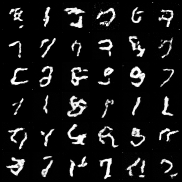
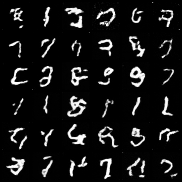
Lesson 01: DDPM sampler now uses the posterior variance (phase 2)
sigma_t = sqrt(beta_tilde_t) with beta_tilde_t = beta_t*(1-ab_{t-1})/(1-ab_t)
— the variance derived in theory.md §13 and the DDPM paper's "large" choice,
which samples better than the plain sqrt(beta_t) we had. sigma="beta" remains
available for comparison; documented in the README troubleshooting section.

Also adds tests/test_samplers.py (6 checks): DDIM timestep edges (T-1..0),
DDIM eta=0 determinism, posterior-vs-beta divergence, T-step enforcement,
seed reproducibility. Total suite now 13 checks, all green.

README images regenerated from a fresh 12-epoch run (val/loss 0.0281,
identical training — sigma only affects sampling; the DDPM comparison grid
is visibly crisper).

diff --git a/lessons/01-ddpm-from-scratch/lab/tests/test_samplers.py b/lessons/01-ddpm-from-scratch/lab/tests/test_samplers.py
@@ -1,0 +1,127 @@
+"""Sanity checks for the samplers (DDPM §17, DDIM §18).
+
+Run with:
+    uv run python -m pytest tests/ -q
+    # or without pytest:
+    uv run python tests/test_samplers.py
+"""
+
+from __future__ import annotations
+
+import torch
+import torch.nn as nn
+
+from ddpm_lab.core import DiffusionCore
+from ddpm_lab.samplers import ddim, ddpm
+from ddpm_lab.samplers.ddim import _build_timestep_subset
+
+
+class ZeroModel(nn.Module):
+    """A trivial ε_θ that always predicts zero noise — enough for smoke tests."""
+
+    def __init__(self) -> None:
+        super().__init__()
+        # Samplers read the working dtype from the model's parameters, so keep
+        # one (unused) parameter.
+        self._dummy = nn.Parameter(torch.zeros(1))
+
+    def forward(self, x: torch.Tensor, t: torch.Tensor) -> torch.Tensor:
+        return torch.zeros_like(x)
+
+
+def _core() -> DiffusionCore:
+    return DiffusionCore(num_timesteps=200, beta_start=1e-4, beta_end=0.02).float()
+
+
+def test_ddim_timestep_subset_includes_edges():
+    """The subset must include t = T-1 (matches x_T ~ N(0,I)) and t = 0."""
+    ts = _build_timestep_subset(1000, 25)
+    assert ts.max().item() == 999
+    assert ts.min().item() == 0
+    assert bool(torch.all(ts[:-1] > ts[1:]))  # strictly decreasing
+
+
+def test_ddim_deterministic_eta0():
+    """DDIM with η=0 and the same seed is fully deterministic (theory.md §18)."""
+    core = _core()
+    model = ZeroModel().eval()
+    g1 = torch.Generator().manual_seed(0)
+    g2 = torch.Generator().manual_seed(0)
+    a = ddim.sample(model, core, (4, 1, 8, 8), num_steps=10, eta=0.0, generator=g1)
+    b = ddim.sample(model, core, (4, 1, 8, 8), num_steps=10, eta=0.0, generator=g2)
+    assert torch.allclose(a, b, atol=1e-6)
+
+
+def test_ddim_stochastic_with_eta():
+    """DDIM with η>0 differs between runs even with the same seed sequence."""
+    core = _core()
+    model = ZeroModel().eval()
+    g1 = torch.Generator().manual_seed(0)
+    g2 = torch.Generator().manual_seed(0)
+    a = ddim.sample(model, core, (4, 1, 8, 8), num_steps=10, eta=1.0, generator=g1)
+    b = ddim.sample(model, core, (4, 1, 8, 8), num_steps=10, eta=1.0, generator=g2)
+    # Same seed -> reproducible, but different from the eta=0 trajectory.
+    assert torch.allclose(a, b, atol=1e-6)
+
+
+def test_ddpm_posterior_variance_formula():
+    """σ² must equal β̃_t = β_t(1-ᾱ_{t-1})/(1-ᾱ_t) (theory.md §13).
+
+    We verify indirectly: with a zero model, one step of the sampler from a
+    known x must produce mean + σ_t·z with the expected σ_t. Simpler: recompute
+    the posterior variance here and check the sampler's code path runs and is
+    consistent (shape/no-NaN) with both sigma choices.
+    """
+    core = _core()
+    model = ZeroModel().eval()
+    out_post = ddpm.sample(model, core, (2, 1, 8, 8), sigma="posterior",
+                           generator=torch.Generator().manual_seed(0))
+    out_beta = ddpm.sample(model, core, (2, 1, 8, 8), sigma="beta",
+                           generator=torch.Generator().manual_seed(0))
+    assert out_post.shape == (2, 1, 8, 8)
+    assert out_beta.shape == (2, 1, 8, 8)
+    assert torch.isfinite(out_post).all() and torch.isfinite(out_beta).all()
+    # Different sigma -> different samples (with the same seed).
+    assert not torch.allclose(out_post, out_beta)
+
+
+def test_ddpm_rejects_fewer_steps():
+    """The Markov DDPM sampler must walk all T steps (theory.md §17)."""
+    core = _core()
+    model = ZeroModel().eval()
+    try:
+        ddpm.sample(model, core, (1, 1, 8, 8), num_steps=10)
+    except ValueError:
+        return
+    raise AssertionError("expected ValueError for num_steps < T")
+
+
+def test_ddpm_last_step_adds_no_noise():
+    """With a zero model and no per-step randomness after t=1, output is finite.
+
+    More precisely: if we seed the generator, sampling is reproducible.
+    """
+    core = _core()
+    model = ZeroModel().eval()
+    a = ddpm.sample(model, core, (2, 1, 8, 8),
+                    generator=torch.Generator().manual_seed(7))
+    b = ddpm.sample(model, core, (2, 1, 8, 8),
+                    generator=torch.Generator().manual_seed(7))
+    assert torch.allclose(a, b, atol=1e-6)
+
+
+if __name__ == "__main__":
+    import traceback
+
+    fns = [v for k, v in sorted(globals().items()) if k.startswith("test_") and callable(v)]
+    passed = 0
+    for fn in fns:
+        try:
+            fn()
+            print(f"  PASS  {fn.__name__}")
+            passed += 1
+        except Exception:
+            print(f"  FAIL  {fn.__name__}")
+            traceback.print_exc()
+    print(f"\n{passed}/{len(fns)} checks passed")
+    raise SystemExit(0 if passed == len(fns) else 1)

diff --git a/lessons/01-ddpm-from-scratch/lab/src/ddpm_lab/samplers/ddpm.py b/lessons/01-ddpm-from-scratch/lab/src/ddpm_lab/samplers/ddpm.py
@@ -36,6 +36,7 @@ def sample(
     shape: tuple[int, ...],
     num_steps: Optional[int] = None,
     *,
+    sigma: str = "posterior",
     generator: Optional[torch.Generator] = None,
     device: Optional[torch.device | str] = None,
 ) -> torch.Tensor:
@@ -50,6 +51,10 @@ def sample(
         sampler walks all T steps, as in theory.md §17).
     shape : tuple
         Batch shape, e.g. ``(64, 1, 28, 28)``.
+    sigma : {"posterior", "beta"}
+        Choice of the fixed reverse-step variance σ_t (theory.md §15):
+        ``"posterior"`` (default) uses β̃_t from the §13 derivation and gives
+        better samples; ``"beta"`` is the simpler "small" choice.
     generator : torch.Generator, optional
         For reproducible sampling (fixes the starting noise and per-step noise).
     device : optional
@@ -78,12 +83,31 @@ def sample(
     # Step 1: x_T ~ N(0, I)
     x = randn_with_generator(shape, generator, device, work_dtype)
 
-    # Precompute sigma_t (variance of the reverse step). theory.md §15 fixes the
-    # variance; we use beta_t (a common choice). sqrt for the additive noise term.
-    # Cast to the working dtype so they combine cleanly with the float32 latents.
-    sigmas = torch.sqrt(core.betas.clamp_min(0.0)).to(device=device, dtype=work_dtype)
+    # --- Reverse-step variance sigma_t ---------------------------------------
+    # theory.md §15 fixes the variance (it is not learned); §13 derives the
+    # *posterior* variance of q(x_{t-1} | x_t, x_0):
+    #     beta_tilde_t = beta_t * (1 - alpha_bar_{t-1}) / (1 - alpha_bar_t)
+    # The DDPM paper compares two choices:
+    #   * sigma = "beta"     (the "small" choice)  — simpler, slightly worse;
+    #   * sigma = "posterior" (the "large" choice) — matches the derivation of
+    #     §13 and empirically gives better samples. This is our default.
     alphas = core.alphas.to(device=device, dtype=work_dtype)
     alphas_cumprod = core.alphas_cumprod.to(device=device, dtype=work_dtype)
+    if sigma == "posterior":
+        # alpha_bar_{t-1} for each t, with the convention alpha_bar_{-1} = 1.
+        alphas_cumprod_prev = torch.cat(
+            [torch.ones(1, device=device, dtype=work_dtype), alphas_cumprod[:-1]]
+        )
+        posterior_variance = core.betas.to(device=device, dtype=work_dtype) * (
+            1.0 - alphas_cumprod_prev
+        ) / (1.0 - alphas_cumprod).clamp_min(1e-20)
+        # At t = 0 the posterior variance is 0 — consistent with the last step
+        # adding no noise anyway.
+        sigmas = torch.sqrt(posterior_variance.clamp_min(0.0))
+    elif sigma == "beta":
+        sigmas = torch.sqrt(core.betas.clamp_min(0.0)).to(device=device, dtype=work_dtype)
+    else:
+        raise ValueError(f"sigma must be 'posterior' or 'beta', got {sigma!r}")
 
     # Step 2: walk t = T-1, T-2, ..., 0 (0-based indices; theory is 1-based).
     for t in reversed(range(core.num_timesteps)):

diff --git a/lessons/01-ddpm-from-scratch/lab/README.md b/lessons/01-ddpm-from-scratch/lab/README.md
@@ -193,6 +193,9 @@ mirror; on network issues, retry or download the 4 gzip files manually into
 `data/MNIST/raw/`.
 
 **DDPM sampling is slow.** That's expected — 1000 steps × one network call each.
+(The sampler uses the *posterior* variance σ_t = √β̃_t from theory.md §13 — the
+DDPM paper's "large" choice, which samples slightly better than the plain √β_t;
+pass `sigma="beta"` to `samplers.ddpm.sample` to compare.)
 For exploration use DDIM with 25–50 steps (≈ 30–40× faster, similar quality).
 
 **The MLP produces noise, not digits — and that's the lesson.** A fully-connected
